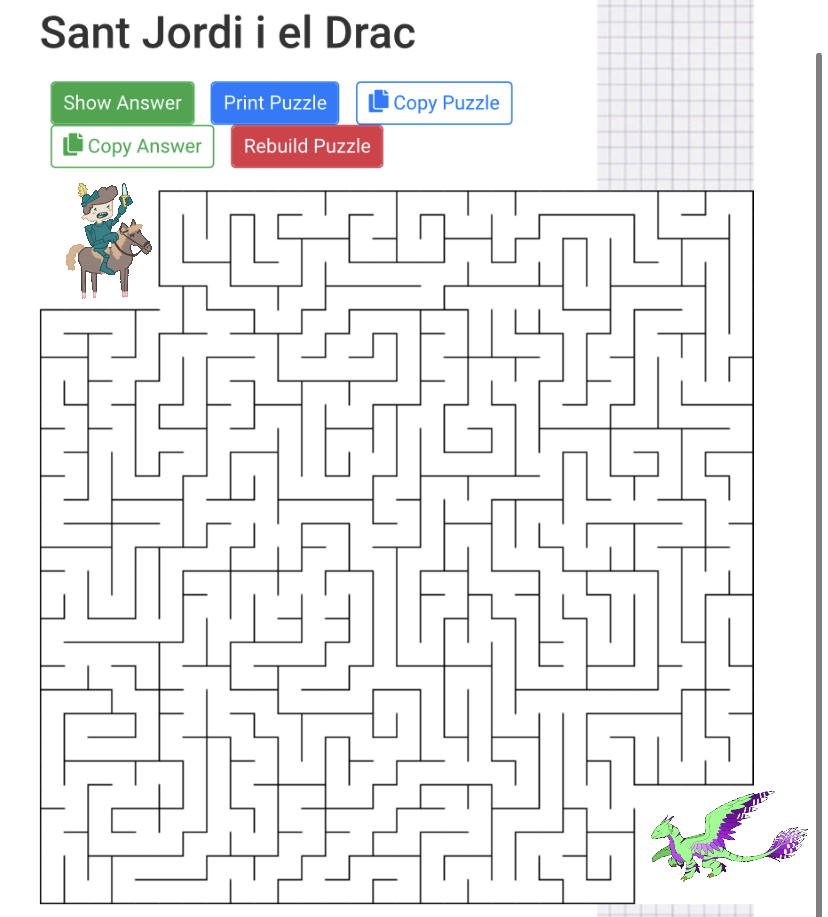
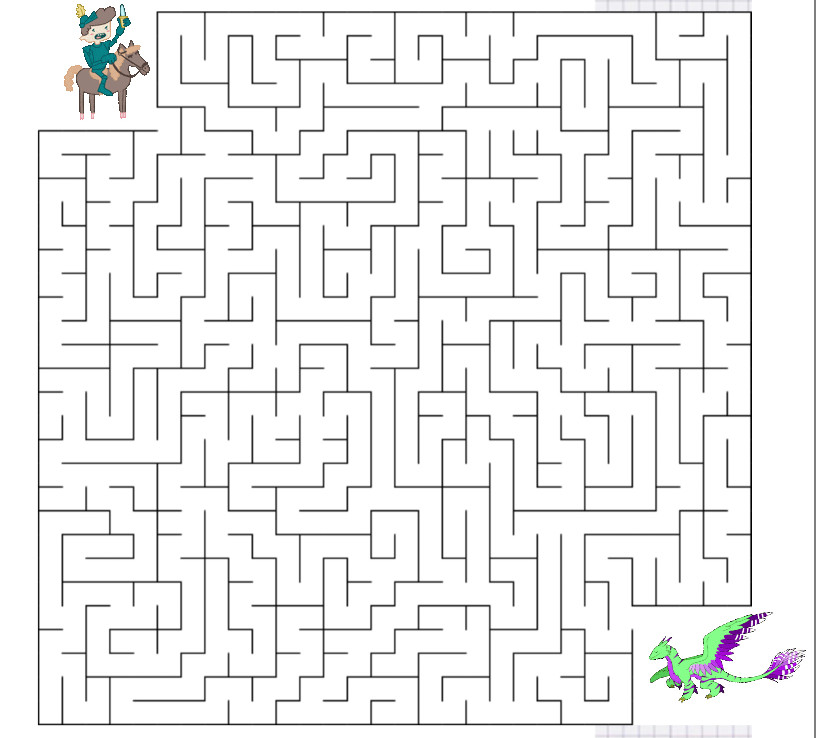
afegides lletres de la solució

Changed region(s): [[0.0306, 0.0, 1.0, 1.0], [0.8885, 0.9973, 0.9191, 1.0]]

diff --git a/16Cuc.html b/16Cuc.html
@@ -93,31 +93,28 @@
 			
 			<!-- video -->
 			<div>
-				<img src="llop.jpg" alt="Sant Jordi" class="responsive">				
+				<img src="laberint2.jpg" alt="Sant Jordi" class="responsive">				
 			</div>
 			<!-- formulari -->
-			<div  class="pregunta">Quin és el nostre personatge misteriós?  </div>
+			<div  class="pregunta">Qui ha ajudat a Sant Jordi a trobar el Drac? </div>
 			
 			<div>
-				<input type="button" onclick="error();" name="submit" value="Mulan" class="button">
+				<input type="button" onclick="correcte();" name="submit" value="La meva família i jo" class="button" style="width: 85%">
 			</div>
 			<div>
-				<input type="button" onclick="error();" name="submit" value="Doraemon" class="button">
+				<input type="button" onclick="correcte();" name="submit" value="Jo, sense ajuda" class="button" style="width: 85%">
 				
 			</div>
 			<div>
-				<input type="button" onclick="correcte();" name="submit" value="Llop ferotge" class="button">
-			</div>
-			<div>
-				<input type="button" onclick="error();" name="submit" value="Pikachu" class="button">
+				<input type="button" onclick="correcte();" name="submit" value="Els meus amics i amigues i jo" class="button" style="width: 85%">
 			</div>
 			
 			<br>
-			<div id="correcte" class="resposta"> Correcte!! <br> La 11a lletra és la d: <br>
+			<div id="correcte" class="resposta"> Correcte!! <br> La 16a lletra és la t: <br>
 				&lowbar;&nbsp;&lowbar;&nbsp;&nbsp;
 				&lowbar;&nbsp;&lowbar;&nbsp;&lowbar;&nbsp;&lowbar;&nbsp;&lowbar;&nbsp;&lowbar;&nbsp;&lowbar;&nbsp;&lowbar;&nbsp;&nbsp;
-				d&lowbar;&nbsp;e&nbsp;
-				&lowbar;&nbsp;&lowbar;&nbsp;&lowbar;&nbsp;&lowbar;&nbsp;&nbsp;
+				&lowbar;&nbsp;&lowbar;&nbsp;&nbsp;
+				&lowbar;&nbsp;&lowbar;&nbsp;&lowbar;&nbsp;t&nbsp;
 				&lowbar;&nbsp;&lowbar;&nbsp;&lowbar;&nbsp;&lowbar;&nbsp;&lowbar;&nbsp;&nbsp;
 				&lowbar;&nbsp;&lowbar;&nbsp;&lowbar;&nbsp;&nbsp;
 				&lowbar;&nbsp;&lowbar;&nbsp;&lowbar;&nbsp;&lowbar;&nbsp;&nbsp;</div>

diff --git a/1Merla.html b/1Merla.html
@@ -109,7 +109,16 @@
 				<input type="button" onclick="error();" name="submit" value="Dumbo" class="button">
 			</div>
 			<br>
-			<div id="correcte" class="resposta"> Correcte!! <br> Lletra de la prova 1: S</div>
+			<div id="correcte" class="resposta"> Correcte!! <br> 
+				La 1a lletra és la L: <br>
+				L&lowbar;&nbsp;&nbsp;&nbsp;
+				&lowbar;&nbsp;&lowbar;&nbsp;&lowbar;&nbsp;&lowbar;&nbsp;&lowbar;&nbsp;&lowbar;&nbsp;&lowbar;&nbsp;&lowbar;&nbsp;&nbsp;
+				&lowbar;&nbsp;&lowbar;&nbsp;&nbsp;
+				&lowbar;&nbsp;&lowbar;&nbsp;&lowbar;&nbsp;&lowbar;&nbsp;&nbsp;
+				&lowbar;&nbsp;&lowbar;&nbsp;&lowbar;&nbsp;&lowbar;&nbsp;&lowbar;&nbsp;&nbsp;
+				&lowbar;&nbsp;&lowbar;&nbsp;&lowbar;&nbsp;&nbsp;
+				&lowbar;&nbsp;&lowbar;&nbsp;&lowbar;&nbsp;&lowbar;&nbsp;&nbsp;
+			</div>
 			<div id="error" class="respostaerror"> Torna-ho a provar! </div>
 			
 			<div><img src="logos.PNG" alt="Col.laboradors" class="responsive"></div>

diff --git a/5Flamenc.html b/5Flamenc.html
@@ -132,7 +132,15 @@
 				<input type="button" onclick="validar();" name="submit" value="Comprovar" class="button">
 			</div>
 			<br>
-			<div id="correcte" class="resposta"> Correcte!! <br> Lletra de la prova 1: S</div>
+			<div id="correcte" class="resposta"> Correcte!! <br> 
+				La 5a lletra és la e: <br>
+				&lowbar;&nbsp;&lowbar;&nbsp;&nbsp;
+				&lowbar;&nbsp;&lowbar;&nbsp;e&lowbar;&nbsp;&lowbar;&nbsp;&lowbar;&nbsp;&lowbar;&nbsp;&lowbar;&nbsp;&nbsp;
+				&lowbar;&nbsp;&lowbar;&nbsp;&nbsp;
+				&lowbar;&nbsp;&lowbar;&nbsp;&lowbar;&nbsp;&lowbar;&nbsp;&nbsp;
+				&lowbar;&nbsp;&lowbar;&nbsp;&lowbar;&nbsp;&lowbar;&nbsp;&lowbar;&nbsp;&nbsp;
+				&lowbar;&nbsp;&lowbar;&nbsp;&lowbar;&nbsp;&nbsp;
+				&lowbar;&nbsp;&lowbar;&nbsp;&lowbar;&nbsp;&lowbar;&nbsp;&nbsp;</div>
 			<div id="error" class="respostaerror"> Torna-ho a provar! </div>
 			
 			<div><img src="logos.PNG" alt="Col.laboradors" class="responsive"></div>

diff --git a/13Coala.html b/13Coala.html
@@ -112,7 +112,14 @@
 				<input type="button" onclick="error();" name="submit" value="Suzanne Collins" class="button">
 			</div>
 			<br>
-			<div id="correcte" class="resposta"> Correcte!! <br> Lletra de la prova 1: S</div>
+			<div id="correcte" class="resposta"> Correcte!! <br> La 13a lletra és la S: <br>
+				&lowbar;&nbsp;&lowbar;&nbsp;&nbsp;
+				&lowbar;&nbsp;&lowbar;&nbsp;&lowbar;&nbsp;&lowbar;&nbsp;&lowbar;&nbsp;&lowbar;&nbsp;&lowbar;&nbsp;&lowbar;&nbsp;&nbsp;
+				&lowbar;&nbsp;&lowbar;&nbsp;&nbsp;
+				S&lowbar;&nbsp;&lowbar;&nbsp;&lowbar;&nbsp;&nbsp;
+				&lowbar;&nbsp;&lowbar;&nbsp;&lowbar;&nbsp;&lowbar;&nbsp;&lowbar;&nbsp;&nbsp;
+				&lowbar;&nbsp;&lowbar;&nbsp;&lowbar;&nbsp;&nbsp;
+				&lowbar;&nbsp;&lowbar;&nbsp;&lowbar;&nbsp;&lowbar;&nbsp;&nbsp;</div>
 			<div id="error" class="respostaerror"> Torna-ho a provar! </div>
 			
 			<div><img src="logos.PNG" alt="Col.laboradors" class="responsive"></div>

diff --git a/12Cargol.html b/12Cargol.html
@@ -145,7 +145,14 @@
 				<input type="button" onclick="validar();" name="submit" value="Comprovar" class="button">
 			</div>
 			<br>
-			<div id="correcte" class="resposta"> Correcte!! <br> Lletra de la prova 1: S</div>
+			<div id="correcte" class="resposta"> Correcte!! <br> La 12a lletra és la e: <br>
+				&lowbar;&nbsp;&lowbar;&nbsp;&nbsp;
+				&lowbar;&nbsp;&lowbar;&nbsp;&lowbar;&nbsp;&lowbar;&nbsp;&lowbar;&nbsp;&lowbar;&nbsp;&lowbar;&nbsp;&lowbar;&nbsp;&nbsp;
+				&lowbar;&nbsp;e&nbsp;
+				&lowbar;&nbsp;&lowbar;&nbsp;&lowbar;&nbsp;&lowbar;&nbsp;&nbsp;
+				&lowbar;&nbsp;&lowbar;&nbsp;&lowbar;&nbsp;&lowbar;&nbsp;&lowbar;&nbsp;&nbsp;
+				&lowbar;&nbsp;&lowbar;&nbsp;&lowbar;&nbsp;&nbsp;
+				&lowbar;&nbsp;&lowbar;&nbsp;&lowbar;&nbsp;&lowbar;&nbsp;&nbsp;</div>
 			<div id="error" class="respostaerror"> Torna-ho a provar! </div>
 			
 			<div><img src="logos.PNG" alt="Col.laboradors" class="responsive"></div>

diff --git a/7Gat.html b/7Gat.html
@@ -112,7 +112,14 @@
 				<input type="button" onclick="error();" name="submit" value="Super ratón" class="button">
 			</div>
 			<br>
-			<div id="correcte" class="resposta"> Correcte!! <br> Lletra de la prova 1: S</div>
+			<div id="correcte" class="resposta"> Correcte!! <br> La 7a lletra és la e: <br>
+				&lowbar;&nbsp;&lowbar;&nbsp;&nbsp;
+				&lowbar;&nbsp;&lowbar;&nbsp;&lowbar;&nbsp;&lowbar;&nbsp;e&lowbar;&nbsp;&lowbar;&nbsp;&lowbar;&nbsp;&nbsp;
+				&lowbar;&nbsp;&lowbar;&nbsp;&nbsp;
+				&lowbar;&nbsp;&lowbar;&nbsp;&lowbar;&nbsp;&lowbar;&nbsp;&nbsp;
+				&lowbar;&nbsp;&lowbar;&nbsp;&lowbar;&nbsp;&lowbar;&nbsp;&lowbar;&nbsp;&nbsp;
+				&lowbar;&nbsp;&lowbar;&nbsp;&lowbar;&nbsp;&nbsp;
+				&lowbar;&nbsp;&lowbar;&nbsp;&lowbar;&nbsp;&lowbar;&nbsp;&nbsp;</div>
 			<div id="error" class="respostaerror"> Torna-ho a provar! </div>
 			
 			<div><img src="logos.PNG" alt="Col.laboradors" class="responsive"></div>

diff --git a/4Pardal.html b/4Pardal.html
@@ -109,7 +109,14 @@
 				<input type="button" onclick="error();" name="submit" value="A la botiga" class="button">
 			</div>
 			<br>
-			<div id="correcte" class="resposta"> Correcte!! <br> Lletra de la prova 1: S</div>
+			<div id="correcte" class="resposta"> Correcte!! <br> La 4a lletra és la l: <br>
+				&lowbar;&nbsp;&lowbar;&nbsp;&nbsp;
+				&lowbar;&nbsp;l&lowbar;&nbsp;&lowbar;&nbsp;&lowbar;&nbsp;&lowbar;&nbsp;&lowbar;&nbsp;&lowbar;&nbsp;&nbsp;
+				&lowbar;&nbsp;&lowbar;&nbsp;&nbsp;
+				&lowbar;&nbsp;&lowbar;&nbsp;&lowbar;&nbsp;&lowbar;&nbsp;&nbsp;
+				&lowbar;&nbsp;&lowbar;&nbsp;&lowbar;&nbsp;&lowbar;&nbsp;&lowbar;&nbsp;&nbsp;
+				&lowbar;&nbsp;&lowbar;&nbsp;&lowbar;&nbsp;&nbsp;
+				&lowbar;&nbsp;&lowbar;&nbsp;&lowbar;&nbsp;&lowbar;&nbsp;&nbsp;</div>
 			<div id="error" class="respostaerror"> Torna-ho a provar! </div>
 			
 			<div><img src="logos.PNG" alt="Col.laboradors" class="responsive"></div>

diff --git a/10Cullerot.html b/10Cullerot.html
@@ -112,7 +112,14 @@
 				<input type="button" onclick="error();" name="submit" value="Gats" class="button">
 			</div>
 			<br>
-			<div id="correcte" class="resposta"> Correcte!! <br> Lletra de la prova 1: S</div>
+			<div id="correcte" class="resposta"> Correcte!! <br>  La 10a lletra és la a: <br>
+				&lowbar;&nbsp;&lowbar;&nbsp;&nbsp;
+				&lowbar;&nbsp;&lowbar;&nbsp;&lowbar;&nbsp;&lowbar;&nbsp;&lowbar;&nbsp;&lowbar;&nbsp;&lowbar;&nbsp;a&nbsp;
+				&lowbar;&nbsp;&lowbar;&nbsp;&nbsp;
+				&lowbar;&nbsp;&lowbar;&nbsp;&lowbar;&nbsp;&lowbar;&nbsp;&nbsp;
+				&lowbar;&nbsp;&lowbar;&nbsp;&lowbar;&nbsp;&lowbar;&nbsp;&lowbar;&nbsp;&nbsp;
+				&lowbar;&nbsp;&lowbar;&nbsp;&lowbar;&nbsp;&nbsp;
+				&lowbar;&nbsp;&lowbar;&nbsp;&lowbar;&nbsp;&lowbar;&nbsp;&nbsp;</div>
 			<div id="error" class="respostaerror"> Torna-ho a provar! </div>
 			
 			<div><img src="logos.PNG" alt="Col.laboradors" class="responsive"></div>

diff --git a/3Lleo.html b/3Lleo.html
@@ -126,7 +126,16 @@
 				<input type="button" onclick="error();" name="submit" value="73" class="button">
 			</div>
 			<br>
-			<div id="correcte" class="resposta"> Correcte!! <br> Lletra de la prova 1: S <br>
+			<div id="correcte" class="resposta"> Correcte!! <br> 
+			La 3a lletra és la l: <br>
+				&lowbar;&nbsp;&lowbar;&nbsp;&nbsp;
+				l&lowbar;&nbsp;&lowbar;&nbsp;&lowbar;&nbsp;&lowbar;&nbsp;&lowbar;&nbsp;&lowbar;&nbsp;&lowbar;&nbsp;&nbsp;
+				&lowbar;&nbsp;&lowbar;&nbsp;&nbsp;
+				&lowbar;&nbsp;&lowbar;&nbsp;&lowbar;&nbsp;&lowbar;&nbsp;&nbsp;
+				&lowbar;&nbsp;&lowbar;&nbsp;&lowbar;&nbsp;&lowbar;&nbsp;&lowbar;&nbsp;&nbsp;
+				&lowbar;&nbsp;&lowbar;&nbsp;&lowbar;&nbsp;&nbsp;
+				&lowbar;&nbsp;&lowbar;&nbsp;&lowbar;&nbsp;&lowbar;&nbsp;&nbsp;
+			<br>
 			<p>
 			tra-e-ja-ri-fa-tra-e-tu-ma-no (10 sílabas) <br>
 			ven-y-pó-sa-la-en-mi-fren-te (9 sílabas) <br>

diff --git a/14Elefant.html b/14Elefant.html
@@ -121,7 +121,14 @@
 				<input type="button" onclick="error();" name="submit" value="Camelot" class="button">
 			</div>
 			<br>
-			<div id="correcte" class="resposta"> Correcte!! <br> Lletra de la prova 1: S <br>
+			<div id="correcte" class="resposta"> Correcte!! <br> La 14a lletra és la a: <br>
+				&lowbar;&nbsp;&lowbar;&nbsp;&nbsp;
+				&lowbar;&nbsp;&lowbar;&nbsp;&lowbar;&nbsp;&lowbar;&nbsp;&lowbar;&nbsp;&lowbar;&nbsp;&lowbar;&nbsp;&lowbar;&nbsp;&nbsp;
+				&lowbar;&nbsp;&lowbar;&nbsp;&nbsp;
+				&lowbar;&nbsp;a&lowbar;&nbsp;&lowbar;&nbsp;&nbsp;
+				&lowbar;&nbsp;&lowbar;&nbsp;&lowbar;&nbsp;&lowbar;&nbsp;&lowbar;&nbsp;&nbsp;
+				&lowbar;&nbsp;&lowbar;&nbsp;&lowbar;&nbsp;&nbsp;
+				&lowbar;&nbsp;&lowbar;&nbsp;&lowbar;&nbsp;&lowbar;&nbsp;&nbsp;
 			</div>
 			<div id="error" class="respostaerror"> Torna-ho a provar! </div>
 			

diff --git a/15Ratpenat.html b/15Ratpenat.html
@@ -109,7 +109,14 @@
 			</div>
 			
 			<br>
-			<div id="correcte" class="resposta"> Correcte!! <br> Lletra de la prova 1: S</div>
+			<div id="correcte" class="resposta"> Correcte!! <br> La 15a lletra és la n: <br>
+				&lowbar;&nbsp;&lowbar;&nbsp;&nbsp;
+				&lowbar;&nbsp;&lowbar;&nbsp;&lowbar;&nbsp;&lowbar;&nbsp;&lowbar;&nbsp;&lowbar;&nbsp;&lowbar;&nbsp;&lowbar;&nbsp;&nbsp;
+				&lowbar;&nbsp;&lowbar;&nbsp;&nbsp;
+				&lowbar;&nbsp;&lowbar;&nbsp;n&lowbar;&nbsp;&nbsp;
+				&lowbar;&nbsp;&lowbar;&nbsp;&lowbar;&nbsp;&lowbar;&nbsp;&lowbar;&nbsp;&nbsp;
+				&lowbar;&nbsp;&lowbar;&nbsp;&lowbar;&nbsp;&nbsp;
+				&lowbar;&nbsp;&lowbar;&nbsp;&lowbar;&nbsp;&lowbar;&nbsp;&nbsp;</div>
 			<div id="error" class="respostaerror"> Torna-ho a provar! </div>
 			
 			<div><img src="logos.PNG" alt="Col.laboradors" class="responsive"></div>

diff --git a/8Oreneta.html b/8Oreneta.html
@@ -110,7 +110,14 @@
 			</div>
 			
 			<br>
-			<div id="correcte" class="resposta"> Correcte!! <br> Lletra de la prova 1: S</div>
+			<div id="correcte" class="resposta"> Correcte!! <br>  La 8a lletra és la n: <br>
+				&lowbar;&nbsp;&lowbar;&nbsp;&nbsp;
+				&lowbar;&nbsp;&lowbar;&nbsp;&lowbar;&nbsp;&lowbar;&nbsp;&lowbar;&nbsp;n&lowbar;&nbsp;&lowbar;&nbsp;&nbsp;
+				&lowbar;&nbsp;&lowbar;&nbsp;&nbsp;
+				&lowbar;&nbsp;&lowbar;&nbsp;&lowbar;&nbsp;&lowbar;&nbsp;&nbsp;
+				&lowbar;&nbsp;&lowbar;&nbsp;&lowbar;&nbsp;&lowbar;&nbsp;&lowbar;&nbsp;&nbsp;
+				&lowbar;&nbsp;&lowbar;&nbsp;&lowbar;&nbsp;&nbsp;
+				&lowbar;&nbsp;&lowbar;&nbsp;&lowbar;&nbsp;&lowbar;&nbsp;&nbsp;</div>
 			<div id="error" class="respostaerror"> Torna-ho a provar! </div>
 			
 			<div><img src="logos.PNG" alt="Col.laboradors" class="responsive"></div>
